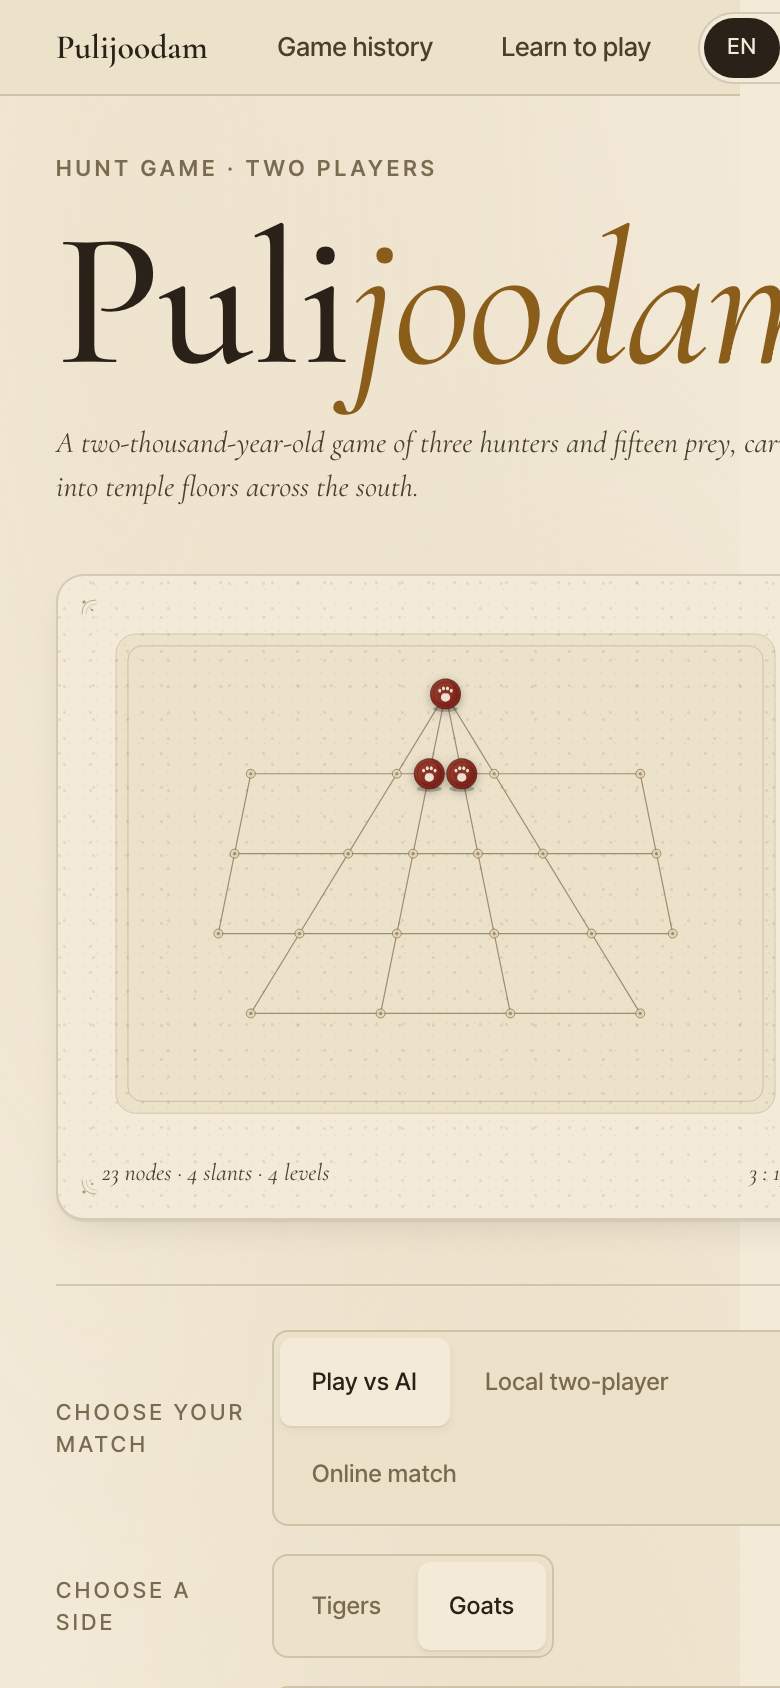
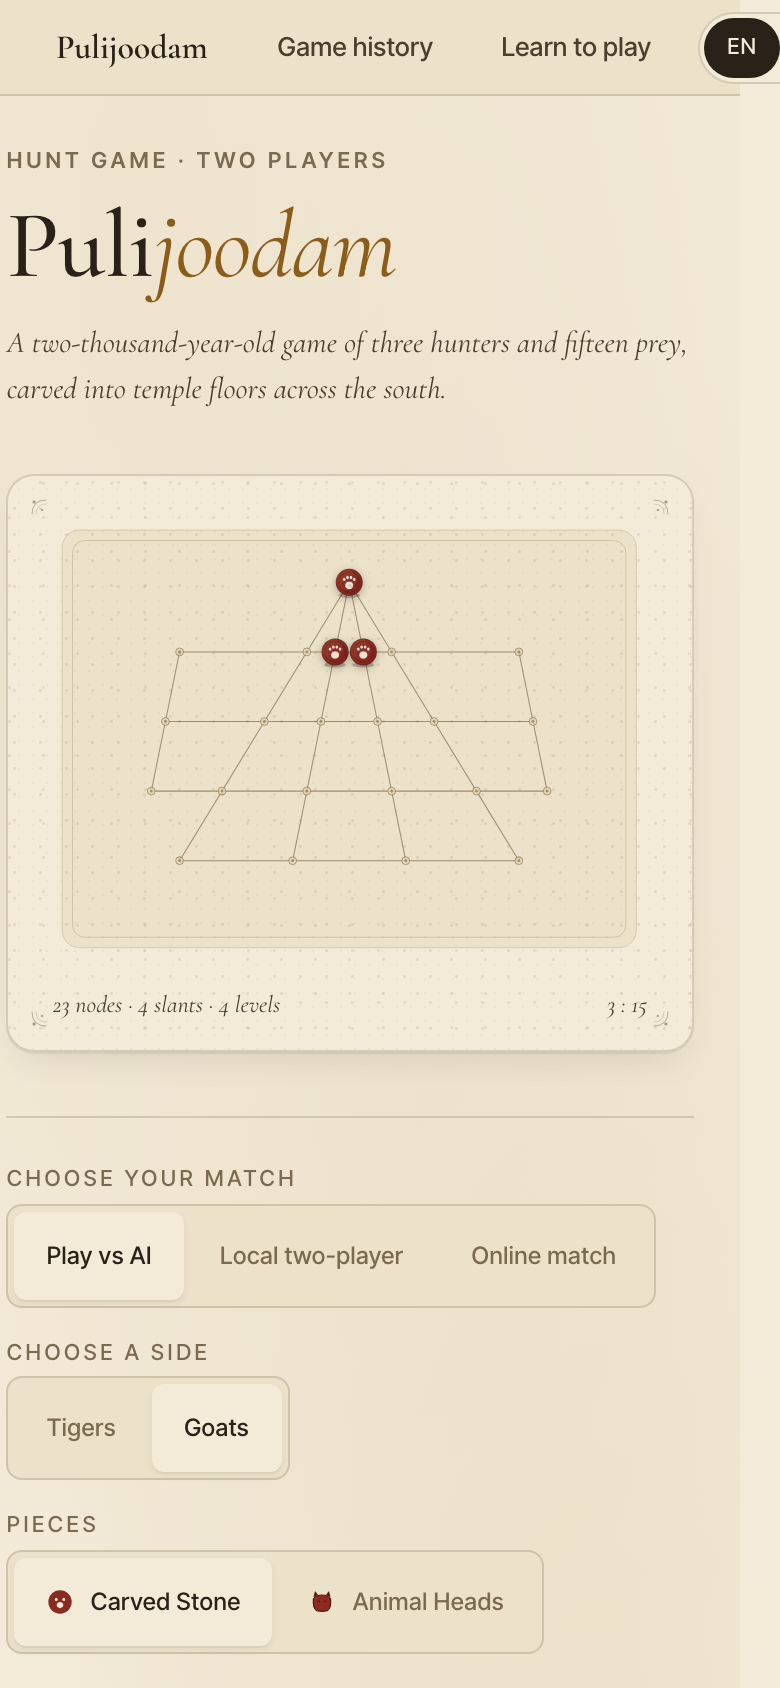
fix(setup): responsive pass — brand clamps, padding shrinks, form stacks
Mobile screens were clipping at the right edge: Brand wordmark at
fixed 96px overflowed narrow viewports, and page padding's 48px floor
left only ~294px of content at 390px wide. Three changes:

- Brand.tsx: lg wordmark uses clamp(48px, 12vw, 96px) for EN and
  clamp(42px, 11vw, 84px) for TE so the wordmark scales between a
  ~360px floor (still legible at 48px) and a 1440px+ ceiling that
  matches the previous 96/84px max.
- SetupScreen.tsx: page padding's horizontal min drops 48 → 20 so
  iPhone-class viewports keep ~280px of usable content instead of
  ~294px wasted on whitespace.
- FormRow: grid stacks label-above-seg under 640px (Tailwind sm),
  reverts to fixed 96px label column at sm and up. Gap tightens on
  mobile (4px → 12px on sm+).

Recaptured all five docs/screenshots — mobile shot now shows the full
brand, tagline, board banner, and stacked form without clipping.
Desktop hits the same 96px max as before.

diff --git a/src/components/atoms/Brand.tsx b/src/components/atoms/Brand.tsx
@@ -8,16 +8,19 @@ interface BrandProps {
   showSubtitle?: boolean;
 }
 
-const ROMAN_SIZES: Record<BrandSize, { wordmark: number; subtitle: number }> = {
+type FontSize = number | string;
+
+const ROMAN_SIZES: Record<BrandSize, { wordmark: FontSize; subtitle: FontSize }> = {
   sm: { wordmark: 22, subtitle: 12 },
   md: { wordmark: 40, subtitle: 16 },
-  lg: { wordmark: 96, subtitle: 22 },
+  // Mobile (~360–640px) lands at the 48px floor; desktop (≥800px) hits the 96px ceiling.
+  lg: { wordmark: 'clamp(48px, 12vw, 96px)', subtitle: 22 },
 };
 
-const TELUGU_SIZES: Record<BrandSize, { wordmark: number; subtitle: number }> = {
+const TELUGU_SIZES: Record<BrandSize, { wordmark: FontSize; subtitle: FontSize }> = {
   sm: { wordmark: 20, subtitle: 12 },
   md: { wordmark: 36, subtitle: 16 },
-  lg: { wordmark: 84, subtitle: 22 },
+  lg: { wordmark: 'clamp(42px, 11vw, 84px)', subtitle: 22 },
 };
 
 /**

diff --git a/src/components/SetupScreen/SetupScreen.tsx b/src/components/SetupScreen/SetupScreen.tsx
@@ -181,7 +181,8 @@ export function SetupScreen({
           style={{
             maxWidth: 1180,
             margin: '0 auto',
-            padding: 'clamp(28px, 4.5vw, 56px) clamp(48px, 6vw, 72px) clamp(40px, 5vw, 72px)',
+            padding:
+              'clamp(24px, 4.5vw, 56px) clamp(20px, 6vw, 72px) clamp(32px, 5vw, 72px)',
           }}
         >
           {/* Resume banner — full-width above the grid when a game is saved. */}
@@ -446,11 +447,11 @@ function FormRow({
 }) {
   return (
     <div
-      className="grid items-center"
-      style={{
-        gridTemplateColumns: '96px 1fr',
-        gap: 12,
-      }}
+      className="
+        grid items-start sm:items-center
+        gap-1 sm:gap-3
+        grid-cols-[1fr] sm:grid-cols-[96px_1fr]
+      "
     >
       <span
         style={{
